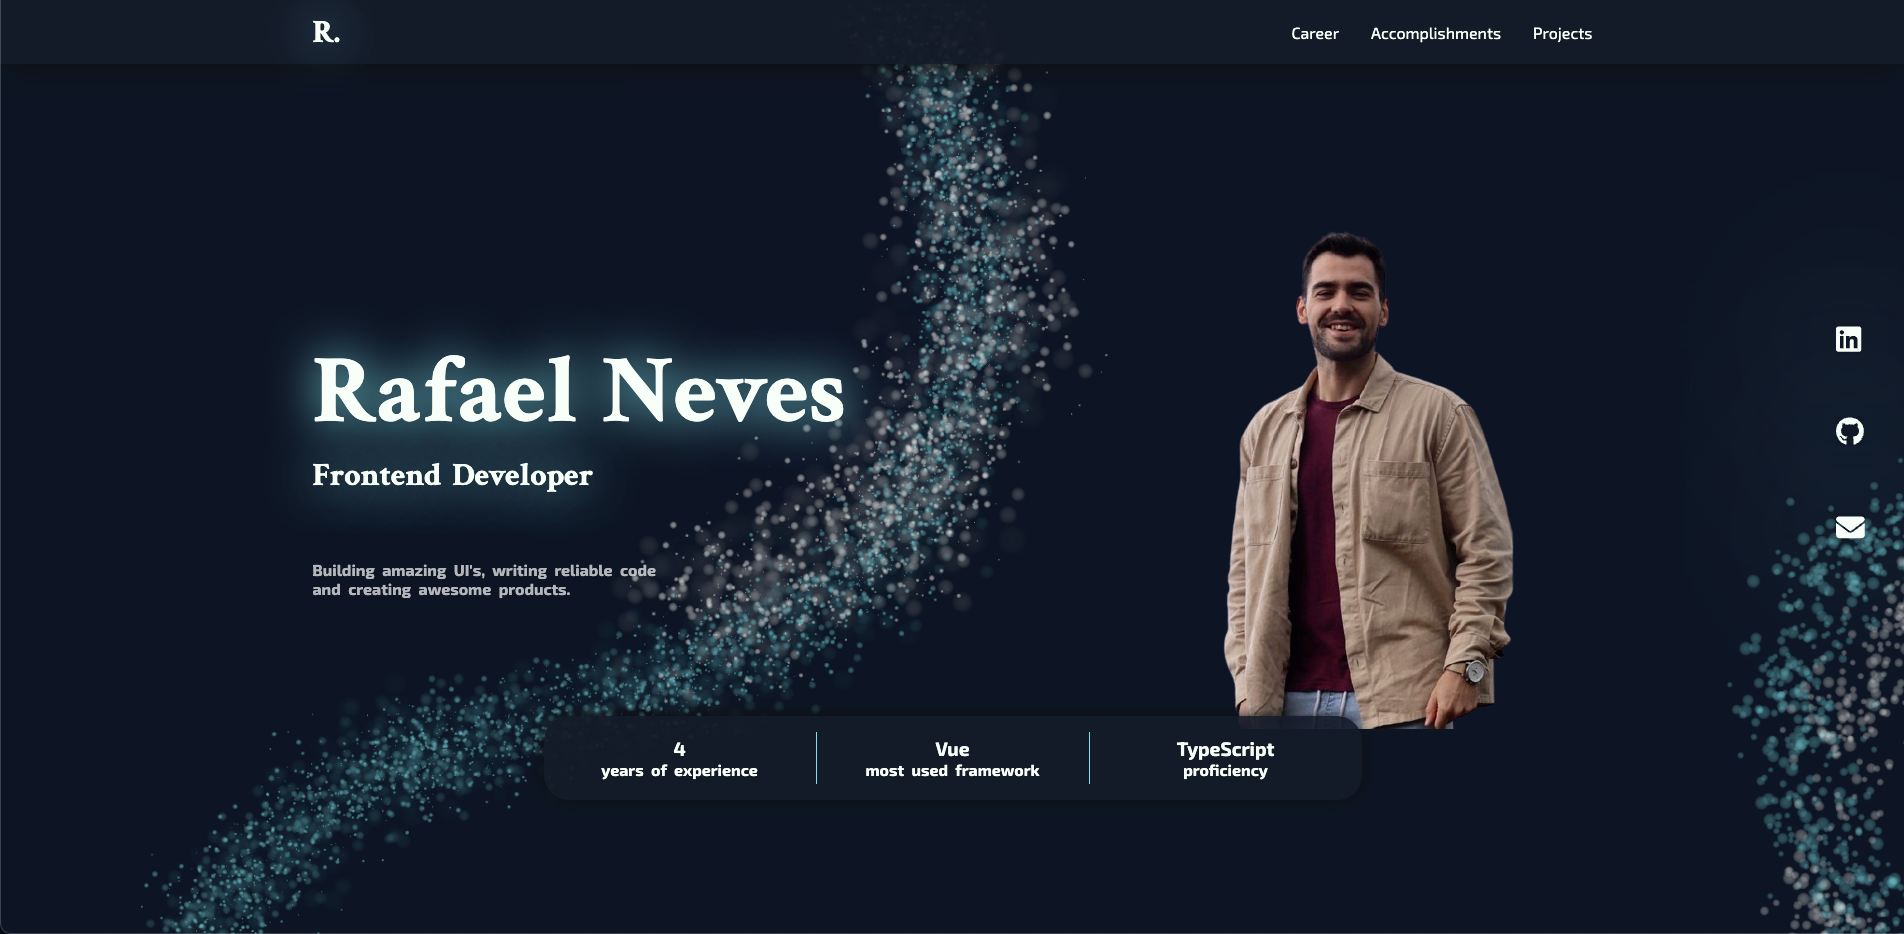
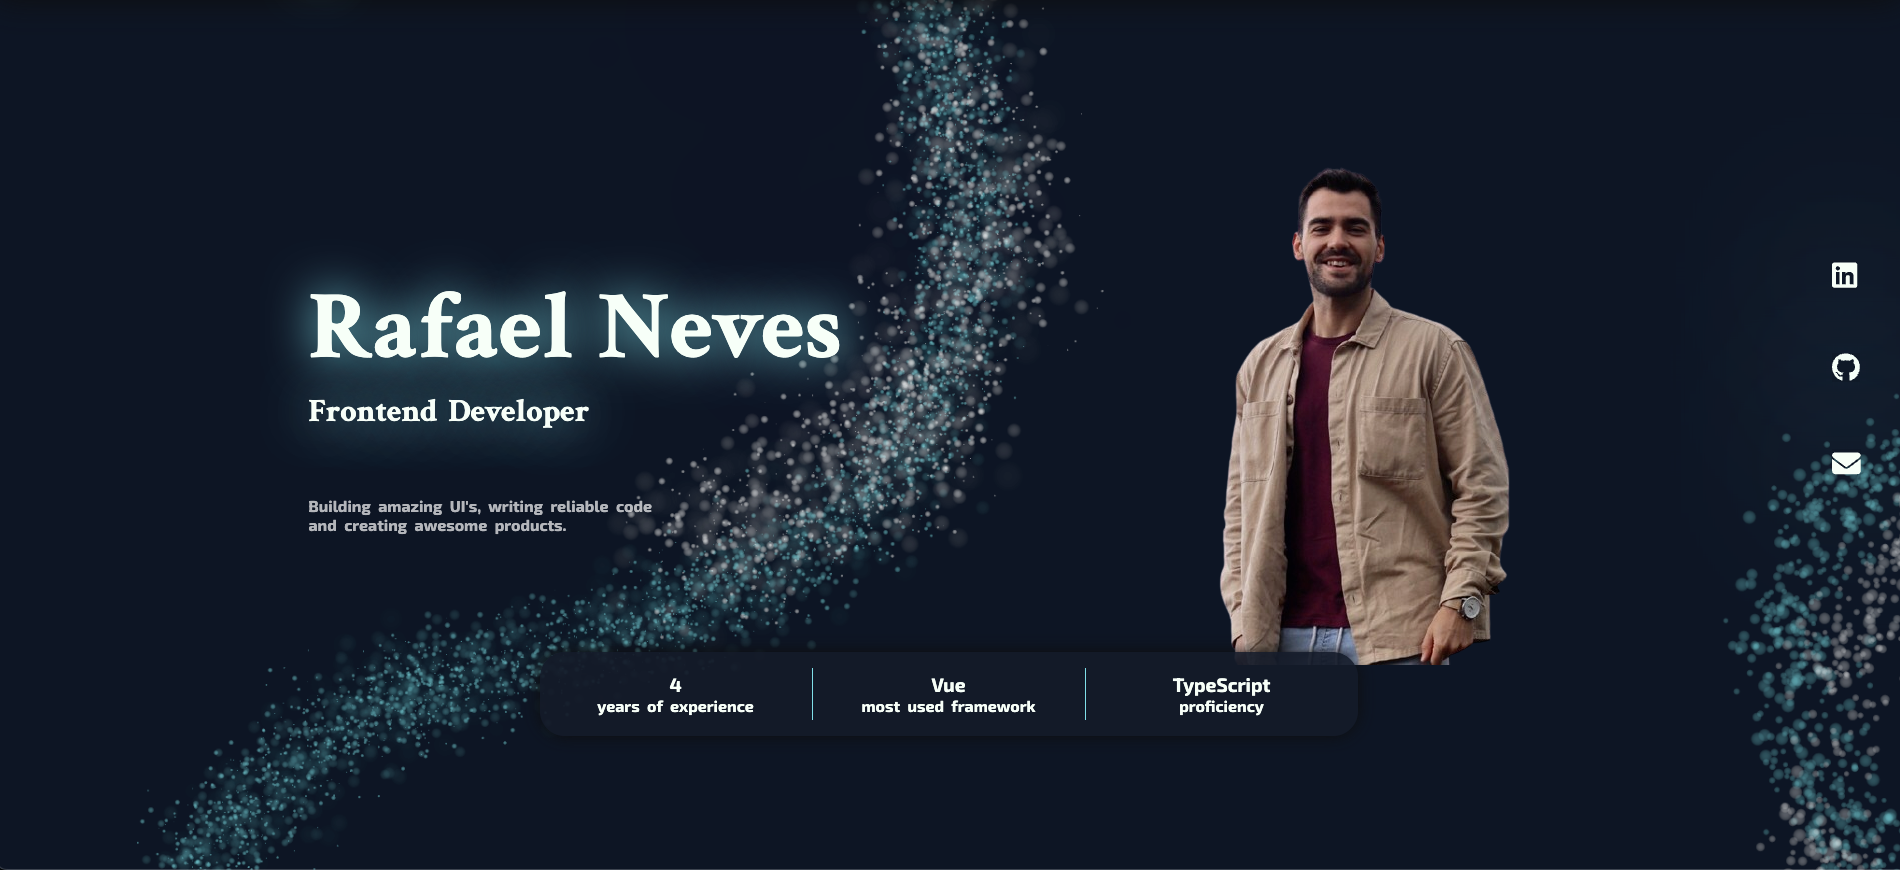
Positioning and UI changes

diff --git a/src/constants/text.ts b/src/constants/text.ts
@@ -96,7 +96,6 @@ export const PROJECTS = [
     file: "unbabel-2.png",
     redirect:
       "https://unbabel.com/sv/introducing-the-unbabel-portal-a-new-way-to-manage-customer-service-language-operations/",
-    full: true,
   },
   {
     title: "X-Hedge",
@@ -112,7 +111,6 @@ export const PROJECTS = [
     file: "portefolio.png",
     redirect: "https://rafa98neves.github.io/#/",
     code: "https://github.com/rafa98neves/portefolio",
-    full: true,
   },
   {
     title: "Sala-Z",
@@ -120,7 +118,6 @@ export const PROJECTS = [
       and intuitive platform for handling multiple events. (Currently undergoing maintenance)`,
     file: "salaz.jpeg",
     redirect: "https://www.grama.io/work/sala-z.html",
-    full: true,
   },
   {
     title: "Plug Events",
@@ -128,5 +125,6 @@ export const PROJECTS = [
       while fostering seamless connections within the artistic community.`,
     file: "plug-events.png",
     redirect: "https://www.plug.events/space/_/_/events",
+    small: true,
   },
 ];

diff --git a/src/components/sections/AcademicSection.vue b/src/components/sections/AcademicSection.vue
@@ -7,9 +7,9 @@ import { ACADEMIC_TEXT } from "@/constants/text";
 <template>
   <section>
     <div class="s-Academic padded-space">
-      <h3 class="text-center">My Accomplishments</h3>
+      <h3 class="text-center mb-6">My Accomplishments</h3>
       <HistoryCard
-        class="my-2"
+        class="my-4"
         image="/images/uc.webp"
         background-color="rgba(255, 255, 255, 0.9)"
         placement="left"
@@ -34,7 +34,7 @@ import { ACADEMIC_TEXT } from "@/constants/text";
         </div>
       </HistoryCard>
       <HistoryCard
-        class="my-2"
+        class="my-4"
         image="/images/fctuc.png"
         background-color="rgba(255, 255, 255, 0.9)"
         alt="FCTUC Logo"
@@ -59,7 +59,7 @@ import { ACADEMIC_TEXT } from "@/constants/text";
       </HistoryCard>
 
       <HistoryCard
-        class="mt-10"
+        class="my-4"
         image="/images/music.jpeg"
         background-color="rgba(161,105,54,255)"
         placement="left"

diff --git a/src/components/sections/HistorySection.vue b/src/components/sections/HistorySection.vue
@@ -6,9 +6,9 @@ import { HISTORY_TEXT } from "@/constants/text";
 <template>
   <section>
     <div class="s-History padded-space">
-      <h3 class="text-center">My Career</h3>
+      <h3 class="text-center mb-2">My Career</h3>
       <HistoryCard
-        class="my-2"
+        class="my-4"
         image="/images/unbabel.png"
         background-color="rgba(56, 67, 208, 1)"
         alt="Unbabel Logo"
@@ -35,7 +35,7 @@ import { HISTORY_TEXT } from "@/constants/text";
         </div>
       </HistoryCard>
       <HistoryCard
-        class="my-2"
+        class="my-4"
         image="/images/grama.jpeg"
         background-color="rgba(0, 0, 0, 1)"
         placement="left"
@@ -65,6 +65,7 @@ import { HISTORY_TEXT } from "@/constants/text";
         </div>
       </HistoryCard>
       <HistoryCard
+        class="my-4"
         image="/images/plug.png"
         background-color="rgb(92, 105, 230, 1)"
         alt="Plug Events Logo"

diff --git a/src/components/blocks/ProjectCard.vue b/src/components/blocks/ProjectCard.vue
@@ -7,8 +7,8 @@ defineProps<{
   file: string;
 
   code?: string;
+  small?: boolean;
   redirect?: string;
-  full?: boolean;
   imgStyle?: string;
 }>();
 
@@ -38,7 +38,7 @@ function redirectUser(redirect?: string) {
       </div>
     </div>
 
-    <div class="c-ProjectCard--image" :class="{ full }">
+    <div class="c-ProjectCard--image" :class="{ full: !small }">
       <img :src="`/images/${file}`" :style="imgStyle" />
     </div>
   </Card>
@@ -83,7 +83,7 @@ function redirectUser(redirect?: string) {
         border-bottom-left-radius: 1rem;
         border-top-right-radius: 0;
         border-top-left-radius: 0;
-        max-height: 16rem;
+        width: 100%;
       }
     }
   }

diff --git a/src/views/HomeView.vue b/src/views/HomeView.vue
@@ -101,7 +101,7 @@ setTimeout(() => key.value++);
     <HistorySection ref="historySection" />
     <AcademicSection ref="academicSection" />
     <ProjectsSection ref="projectsSection" />
-    <ContactsSection class="pt-14 pb-10" />
+    <ContactsSection class="py-10" />
   </div>
 </template>
 
@@ -109,8 +109,11 @@ setTimeout(() => key.value++);
 <style lang="scss" scoped>
 .v-Home {
   position: relative;
-  background-image: url('images/bg.png');
-  background-size: contain;
-}
+  background-image: url('/images/bg.png');
+  background-size: cover;
 
+  @include maxMD {
+    background-size: contain;
+  }
+}
 </style>

diff --git a/src/components/blocks/HistoryCard.vue b/src/components/blocks/HistoryCard.vue
@@ -57,7 +57,6 @@ const commonBinds = computed(() => ({
   color: $pure--white;
   align-items: center;
   justify-content: space-between;
-  min-height: 20rem;
   width: 120%;
 
   img {
@@ -76,15 +75,11 @@ const commonBinds = computed(() => ({
   }
 
   &.left {
-    margin-right: -20%;
-    border-top-left-radius: 8rem;
-    border-bottom-left-radius: 8rem;
+    margin-left: 15%;
   }
 
   &.right {
-    margin-left: -20%;
-    border-top-right-radius: 8rem;
-    border-bottom-right-radius: 8rem;
+    margin-left: -33%;
 
     img {
       order: 2;

diff --git a/src/components/sections/GreetingSection.vue b/src/components/sections/GreetingSection.vue
@@ -43,10 +43,10 @@ section {
     h1 {
       font-size: 4rem;
     }
-  }
 
-  &--text {
-    margin-left: 10%;
+    &--text {
+      margin-left: 10%;
+    }
   }
 
   &--subtitle {
